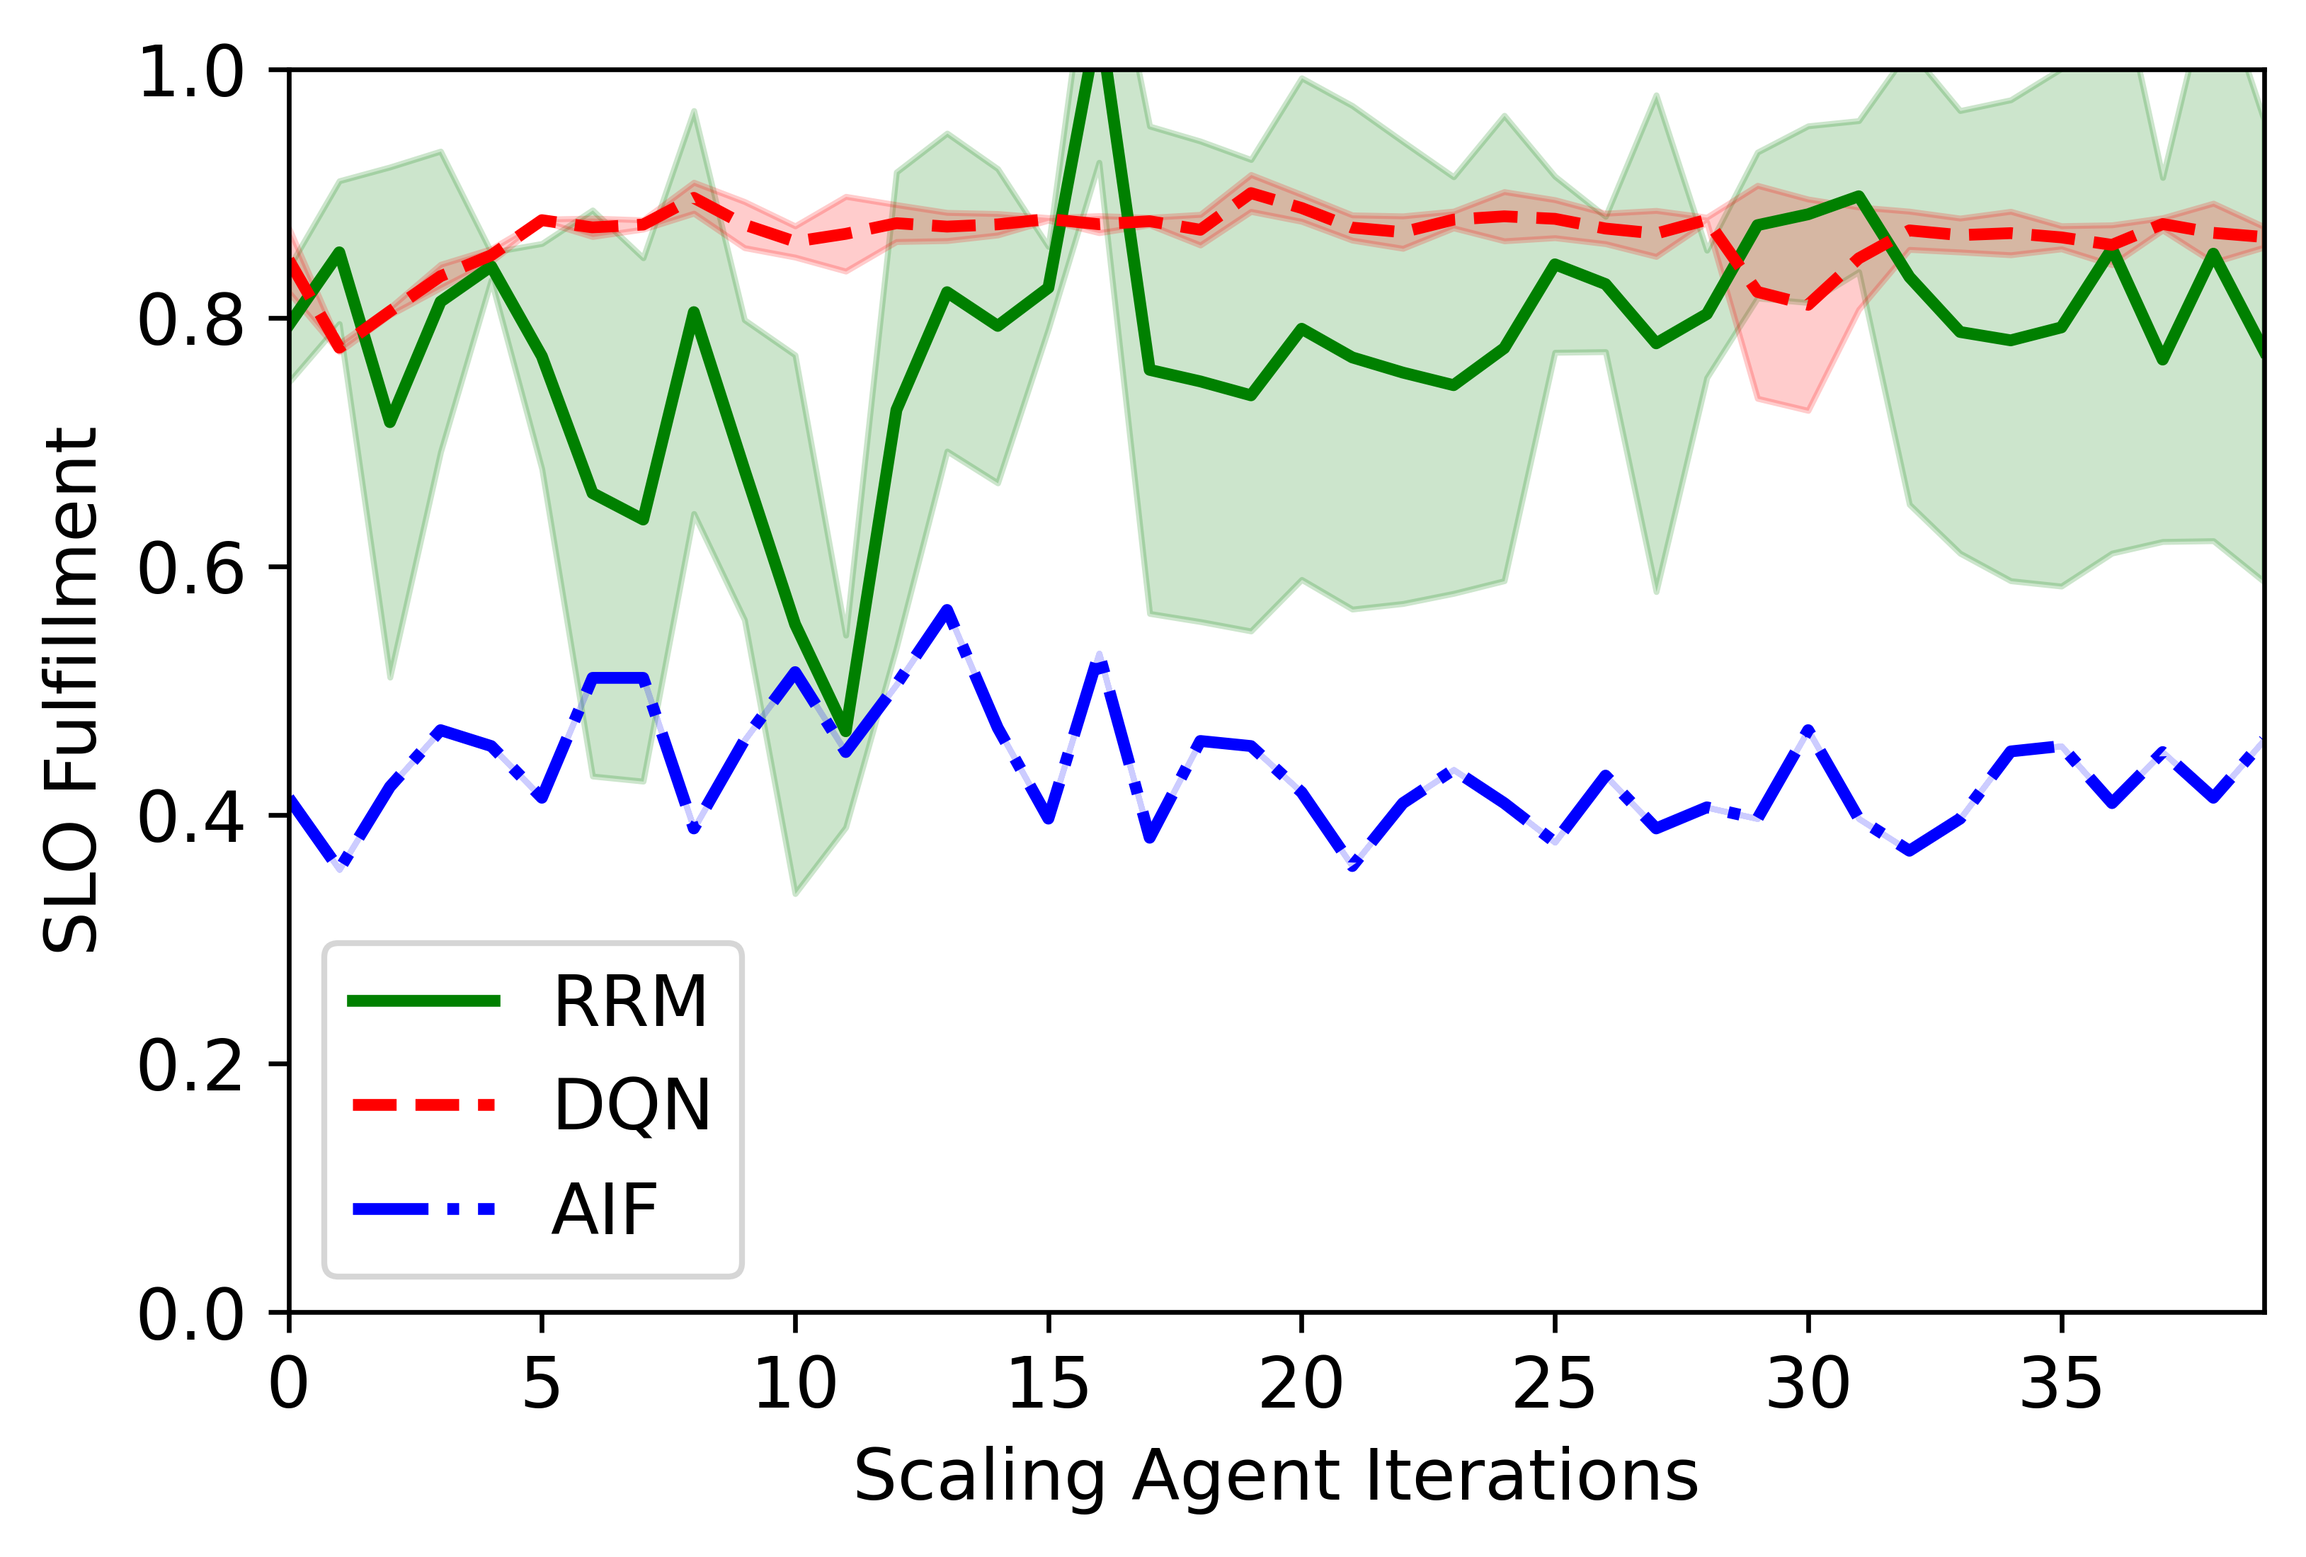
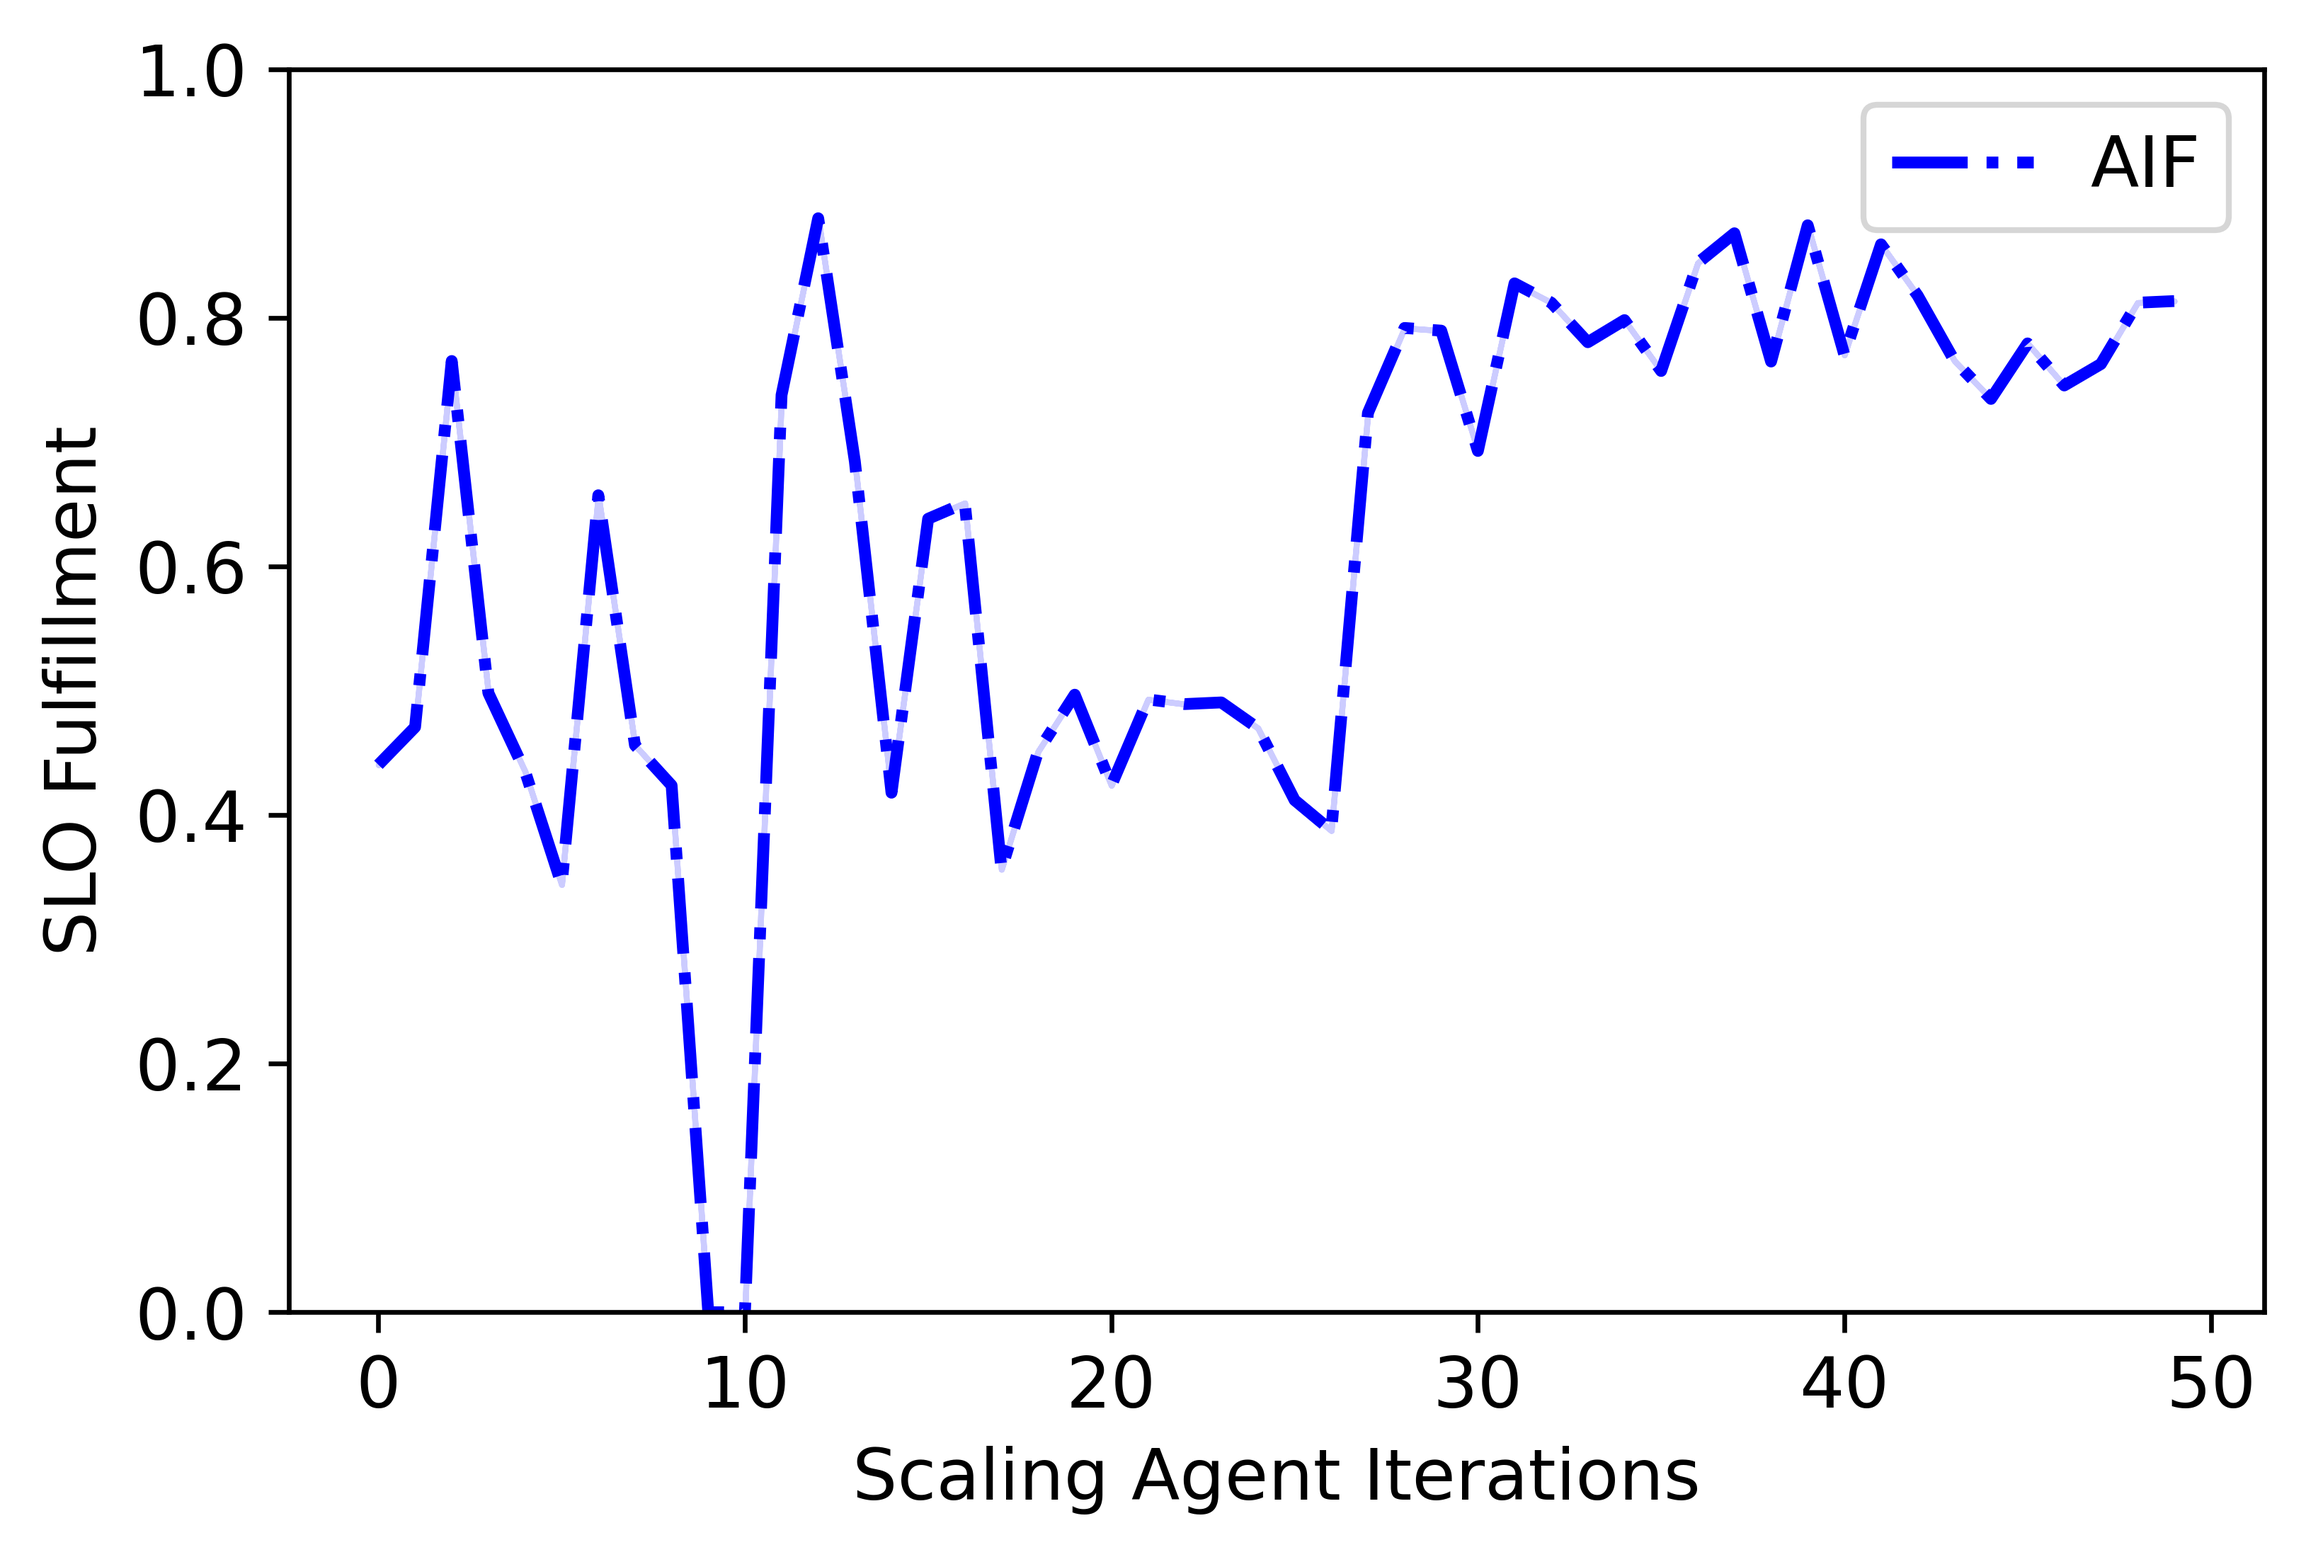
found a nice run!

diff --git a/iwai/global_training_env.py b/iwai/global_training_env.py
@@ -1,4 +1,10 @@
+import os
+
+import pandas as pd
+
 import utils
+from agent.es_registry import ServiceType
+from iwai.dqn_trainer import QR_DATA_QUALITY_STEP, CV_DATA_QUALITY_STEP
 from iwai.lgbn_training_env import LGBNTrainingEnv, INVALID_ACTION_PUNISHMENT
 from proj_types import ESServiceAction
 
@@ -37,14 +43,14 @@ class GlobalTrainingEnv:
         old_state_qr = self.env_qr.state
         old_state_cv = self.env_cv.state
 
+        # TODO: Prevent even the action if the total cores will be too high
+
         # Apply actions
         next_state_qr, reward_qr, done_qr, _, _ = self.env_qr.step(action_qr)
         next_state_cv, reward_cv, done_cv, _, _ = self.env_cv.step(action_cv)
 
         total_used_cores_after = next_state_qr.cores + next_state_cv.cores
         free_cores = self.max_cores - total_used_cores_after
-        next_state_qr = next_state_qr._replace(free_cores=free_cores)
-        next_state_cv = next_state_cv._replace(free_cores=free_cores)
 
         overuse = total_used_cores_after > self.max_cores
 
@@ -53,11 +59,32 @@ class GlobalTrainingEnv:
         if overuse:  # Shared penalty if resource overuse occurred
             # penalty = INVALID_ACTION_PUNISHMENT
             # done = True
+            free_cores = self.max_cores - (old_state_qr.cores + old_state_cv.cores)
             next_state_qr = old_state_qr
             next_state_cv = old_state_cv
-            reward_qr = 0
-            reward_cv = 0
+            # reward_qr = 0
+            # reward_cv = 0
+
+        next_state_qr = next_state_qr._replace(free_cores=free_cores)
+        next_state_cv = next_state_cv._replace(free_cores=free_cores)
 
         joint_reward = reward_qr + reward_cv #+ penalty
 
         return (next_state_qr, next_state_cv), joint_reward, done
+
+if __name__ == "__main__":
+    ROOT = os.path.dirname(__file__)
+    df = pd.read_csv(ROOT + "/../share/metrics/LGBN.csv")
+
+    env_qr = LGBNTrainingEnv(ServiceType.QR, step_data_quality=QR_DATA_QUALITY_STEP)
+    env_qr.reload_lgbn_model(df)
+
+    env_cv = LGBNTrainingEnv(ServiceType.CV, step_data_quality=CV_DATA_QUALITY_STEP)
+    env_cv.reload_lgbn_model(df)
+
+    # Wrap in joint environment
+    joint_env = GlobalTrainingEnv(env_qr, env_cv, max_cores=8)
+    joint_env.reset()
+
+    for _ in range(10):
+        print(joint_env.step(ESServiceAction.INC_CORES, ESServiceAction.INC_CORES))

diff --git a/iwai/pymdp_agent.py b/iwai/pymdp_agent.py
@@ -406,8 +406,6 @@ def train_pymdp_agent(action_selection, alpha, motivate_cores):
     elapsed = time.time() - start_time
     print(f"Execution time: {elapsed:.4f} seconds")
 
-    joint_reward = 0
-
     logged_data = list()
 
     for steps in range(50):
@@ -479,8 +477,8 @@ def train_pymdp_agent(action_selection, alpha, motivate_cores):
             "info_gain": info_gain,
             "pragmatic_value": pragmatic_value,
         })
-        print(logged_data[-1]["next_state_cv"])
-        print(logged_data[-1]["next_state_qr"])
+        print(f"CV| {action_cv} --> {logged_data[-1]["next_state_cv"]}")
+        print(f"QR| {action_qr} --> {logged_data[-1]["next_state_qr"]}")
         print(logged_data[-1]["reward"])
 
     save_agent_parameters(pymdp_agent, save_path="../experiments/iwai/saved_agent")
@@ -488,12 +486,12 @@ def train_pymdp_agent(action_selection, alpha, motivate_cores):
     log_path = f"../experiments/iwai/{timestamp}_pymdp_service_log.csv"
     df = pd.DataFrame(logged_data)
     df.to_csv(log_path, index=False, mode='a', header=not os.path.exists(log_path))
-    log_entries = []  # Clear after saving
+
     print("done")
 
 if __name__ == "__main__":
     for i in range(5):
+        train_pymdp_agent("stochastic", 4, True)
+        train_pymdp_agent("stochastic", 8, True)
         train_pymdp_agent("deterministic", 16, True)
         train_pymdp_agent("deterministic", 16, False)
-        train_pymdp_agent("stochastic", 8, True)
-        train_pymdp_agent("stochastic", 4, False)

diff --git a/experiments/iwai/B1/B1.py b/experiments/iwai/B1/B1.py
@@ -158,5 +158,5 @@ if __name__ == '__main__':
 
     #eval_scaling_agent(agent_fact_dqn, "DQN")
     #eval_scaling_agent(agent_fact_rrm, "RRM")
-    import_pymdp_logs(filename = ROOT+ "/../20250604_165223_pymdp_service_log.csv")
+    import_pymdp_logs(filename = ROOT+ "/../20250605_104110_pymdp_service_log.csv")
     visualize_data(["RRM", "DQN", "AIF"], ROOT + "/plots/slo_f.png")

diff --git a/experiments/iwai/transform_pymdp_logs.py b/experiments/iwai/transform_pymdp_logs.py
@@ -61,7 +61,7 @@ def import_pymdp_logs(filename):
         })
 
     # Output DataFrame
-    output_df = pd.DataFrame(rows)[:80] # As for the other two agents
+    output_df = pd.DataFrame(rows)[:50] # As for the other two agents
     output_df.to_csv(ROOT + "/B1/agent_experience_AIF.csv", index=False)
 
 if __name__ == "__main__":
